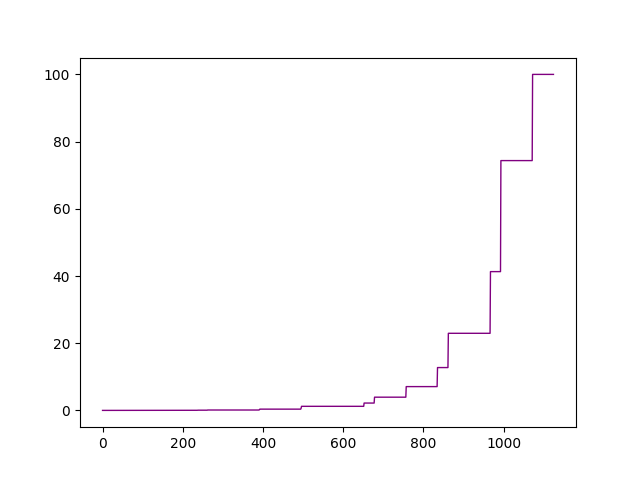
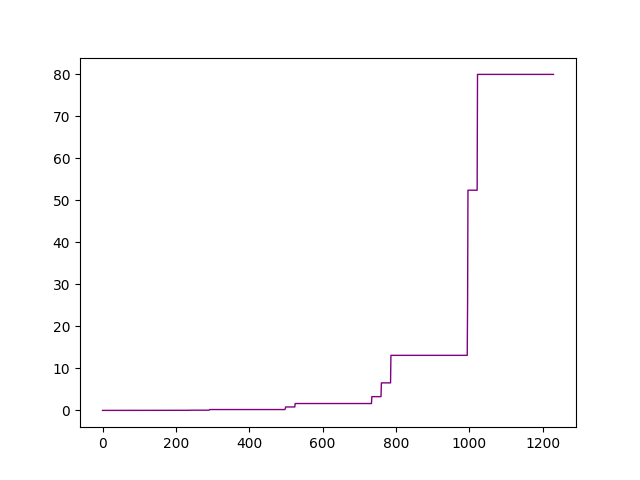
6.11

diff --git a/HW19/3/pLADMPSAP.py b/HW19/3/pLADMPSAP.py
@@ -5,7 +5,7 @@ import random
 
 np.random.seed(1919810)
 
-max_time = 10.0
+max_time = 30.0
 max_iter = 1000
 
 
@@ -42,7 +42,6 @@ class GD:
         t = self.line_search(self.w, d)
         self.w += t*d
         cur = self.f(self.w)
-        self.f_his.append(cur)
         self.steps += 1
         print("steps:", self.steps)
         print("f:", cur)
@@ -55,6 +54,10 @@ class GD:
             if end-start > max_time:
                 return
             self.t_his.append(end-start)
+            self.f_his.append(self.f(self.w))
+
+    def export_data(self, name: str):
+        return [name, self.f_his, self.t_his]
 
 
 class pLADMPSAP:
@@ -105,13 +108,10 @@ class pLADMPSAP:
         dw0 = (1 / self.tau0) * np.sum(self.LAM, axis=1)
         self.w0 += dw0
         for i in range(self.n):
-            # if i % 100 == 0:
-            #     print(i*100/self.n, "%")
             self.W[:, i] -= (1 / self.TAU[i]) * (self.LAM[:, i] + self.df_i(self.W[:, i], i))
             dLAM[:, i] = self.W[:, i] - w0
         self.LAM += self.beta * dLAM
         cur = self.f(self.w0)
-        self.f_his.append(cur)
         self.steps += 1
         print("steps:", self.steps)
         print("f:", cur)
@@ -122,11 +122,36 @@ class pLADMPSAP:
         while True:
             self.step()
             end = time.time()
-            if self.steps >= max_iter:
+            if end-start >= max_time:
                 return
             self.t_his.append(end-start)
+            self.f_his.append(self.f(self.w0))
+
+    def export_data(self, name: str):
+        return [name, self.f_his, self.t_his]
 
 # f: 0.5921396703288766
+
+
+class Plot:
+    def __init__(self) -> None:
+        self.name = []
+        self.f = []
+        self.t = []
+
+    def recv_data(self, obj):
+        self.name.append(obj[0])
+        self.f.append(obj[1])
+        self.t.append(obj[2])
+
+    def plot(self):
+        plt.figure()
+        for i in range(len(self.name)):
+            print(i)
+            plt.plot(self.t[i], self.f[i], label=self.name[i])
+        plt.legend()
+        plt.savefig("pLADMPSAP.png")
+        plt.show()
 
 
 if __name__ == "__main__":
@@ -134,8 +159,13 @@ if __name__ == "__main__":
     y = np.random.randint(0, 2, size=500) * 2 - 1
     w = np.array([0.0]*100)
 
-    # gd = GD(100, 500, X.copy(), y.copy(), w.copy(), 0.4, 0.8)
-    # gd.start()
+    gd = GD(100, 500, X.copy(), y.copy(), w.copy(), 0.4, 0.8)
+    gd.start()
 
     plad = pLADMPSAP(100, 500, X.copy(), y.copy(), w.copy(), 0.001, 0.0001)
     plad.start()
+
+    plot = Plot()
+    plot.recv_data(gd.export_data("gd"))
+    plot.recv_data(plad.export_data("pLADMPSAP"))
+    plot.plot()

diff --git a/HW19/2/ladmpsap.py b/HW19/2/ladmpsap.py
@@ -139,8 +139,8 @@ if __name__ == "__main__":
     Z0 = np.zeros((300, 300))
     LAM0 = np.zeros((201, 300))
     beta = 0.0001
-    beta_m = 100
-    rho = 1.8
+    beta_m = 80
+    rho = 2.0
     eps1 = 1e-4
     eps2 = 1e-4
     ladmpsap = LADMPSAP(n, p, lam_coe, D0, Z0, E0, LAM0, beta, beta_m, rho, eps1, eps2)
